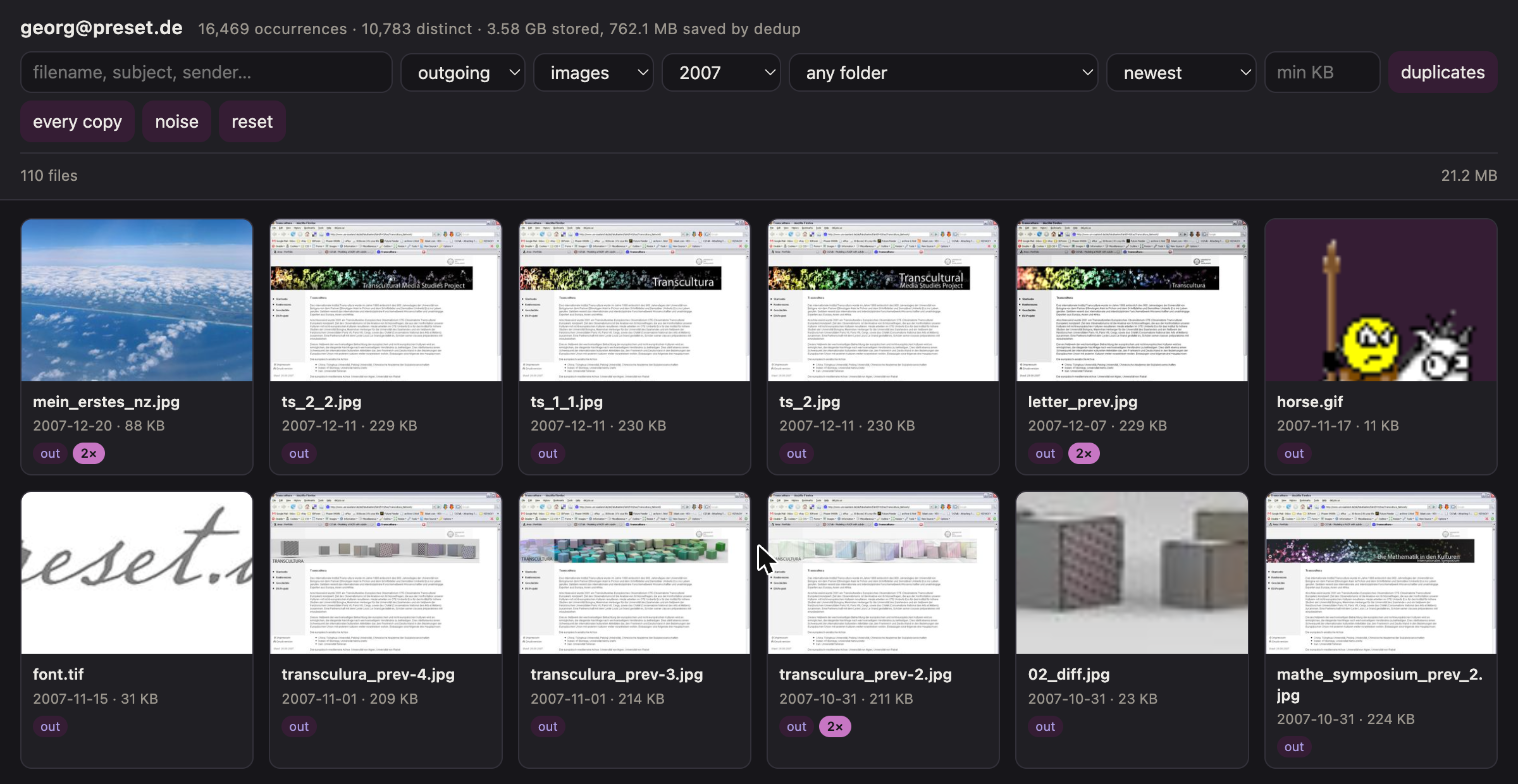
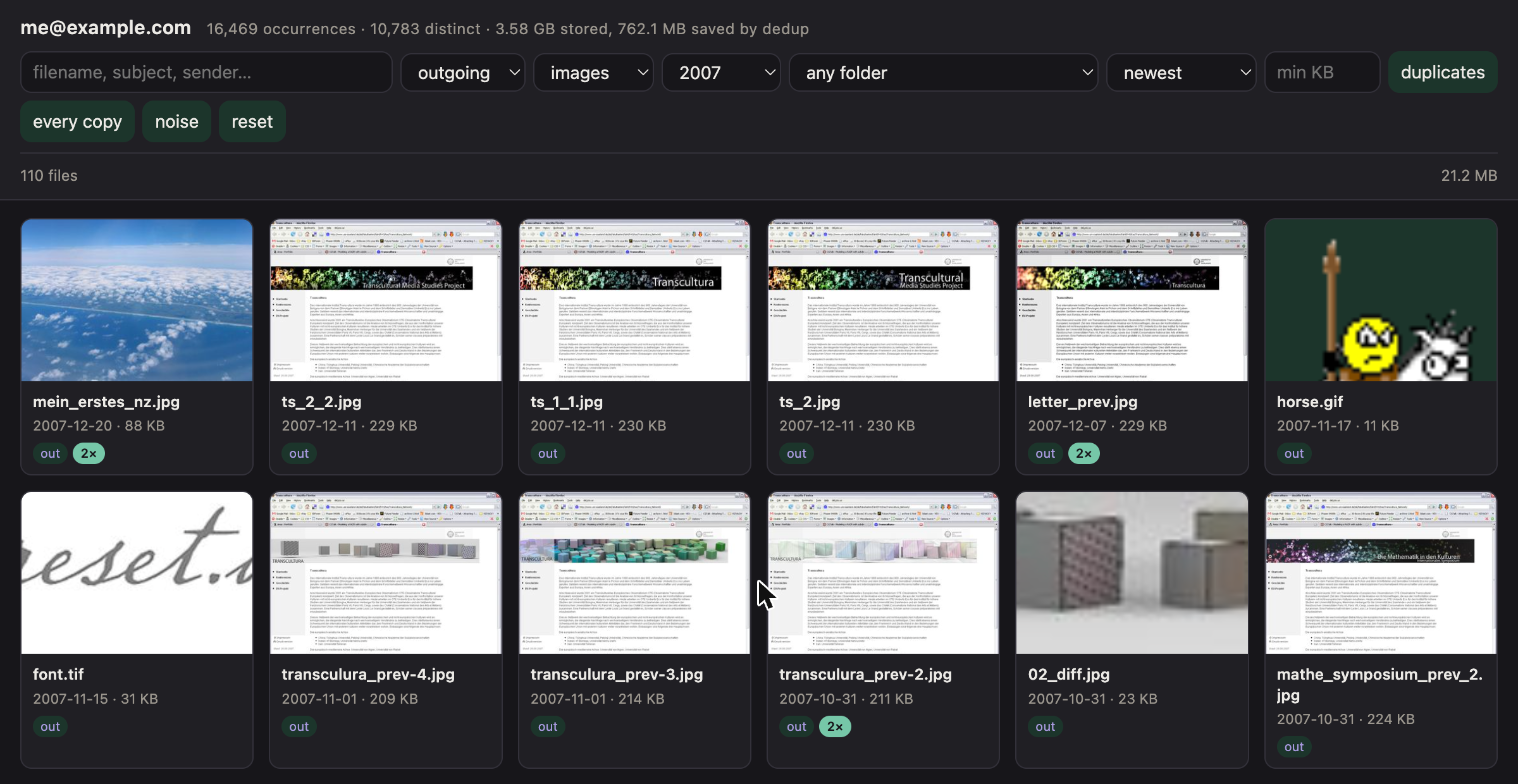
Use a neutral label in the screenshot; add a CI badge
The screenshot carried a real address in the header. --label is just a
flag, so the same view re-shot with me@example.com needs no blurring --
and shows the accent colour tracking the label, which is the point of it.

Also corrects the test count and adds the CI badge.

diff --git a/README.md b/README.md
@@ -1,5 +1,7 @@
 # attic
 
+[![CI](https://github.com/rdg/attic/actions/workflows/ci.yml/badge.svg)](https://github.com/rdg/attic/actions/workflows/ci.yml)
+
 Make twenty years of mail attachments browsable.
 
 `attic` walks a Maildir tree, pulls out every attachment, stores each
@@ -19,7 +21,8 @@ attic serve ~/archive-attachments --label me@example.com
 ![The grid, filtered to outgoing images from one year](docs/screenshot.png)
 
 *Everything sent out in 2007 that was an image. The badges count how many
-messages carried the same file.*
+messages carried the same file. The header name and accent colour come from
+`--label`, so two mailboxes open side by side never look alike.*
 
 ## Why
 
@@ -185,7 +188,7 @@ startup.
 
 ```bash
 uv sync
-uv run pytest          # 80 tests, ~79% coverage
+uv run pytest          # 81 tests, ~79% coverage
 uv run ruff check
 uv run ruff format --check
 ```
